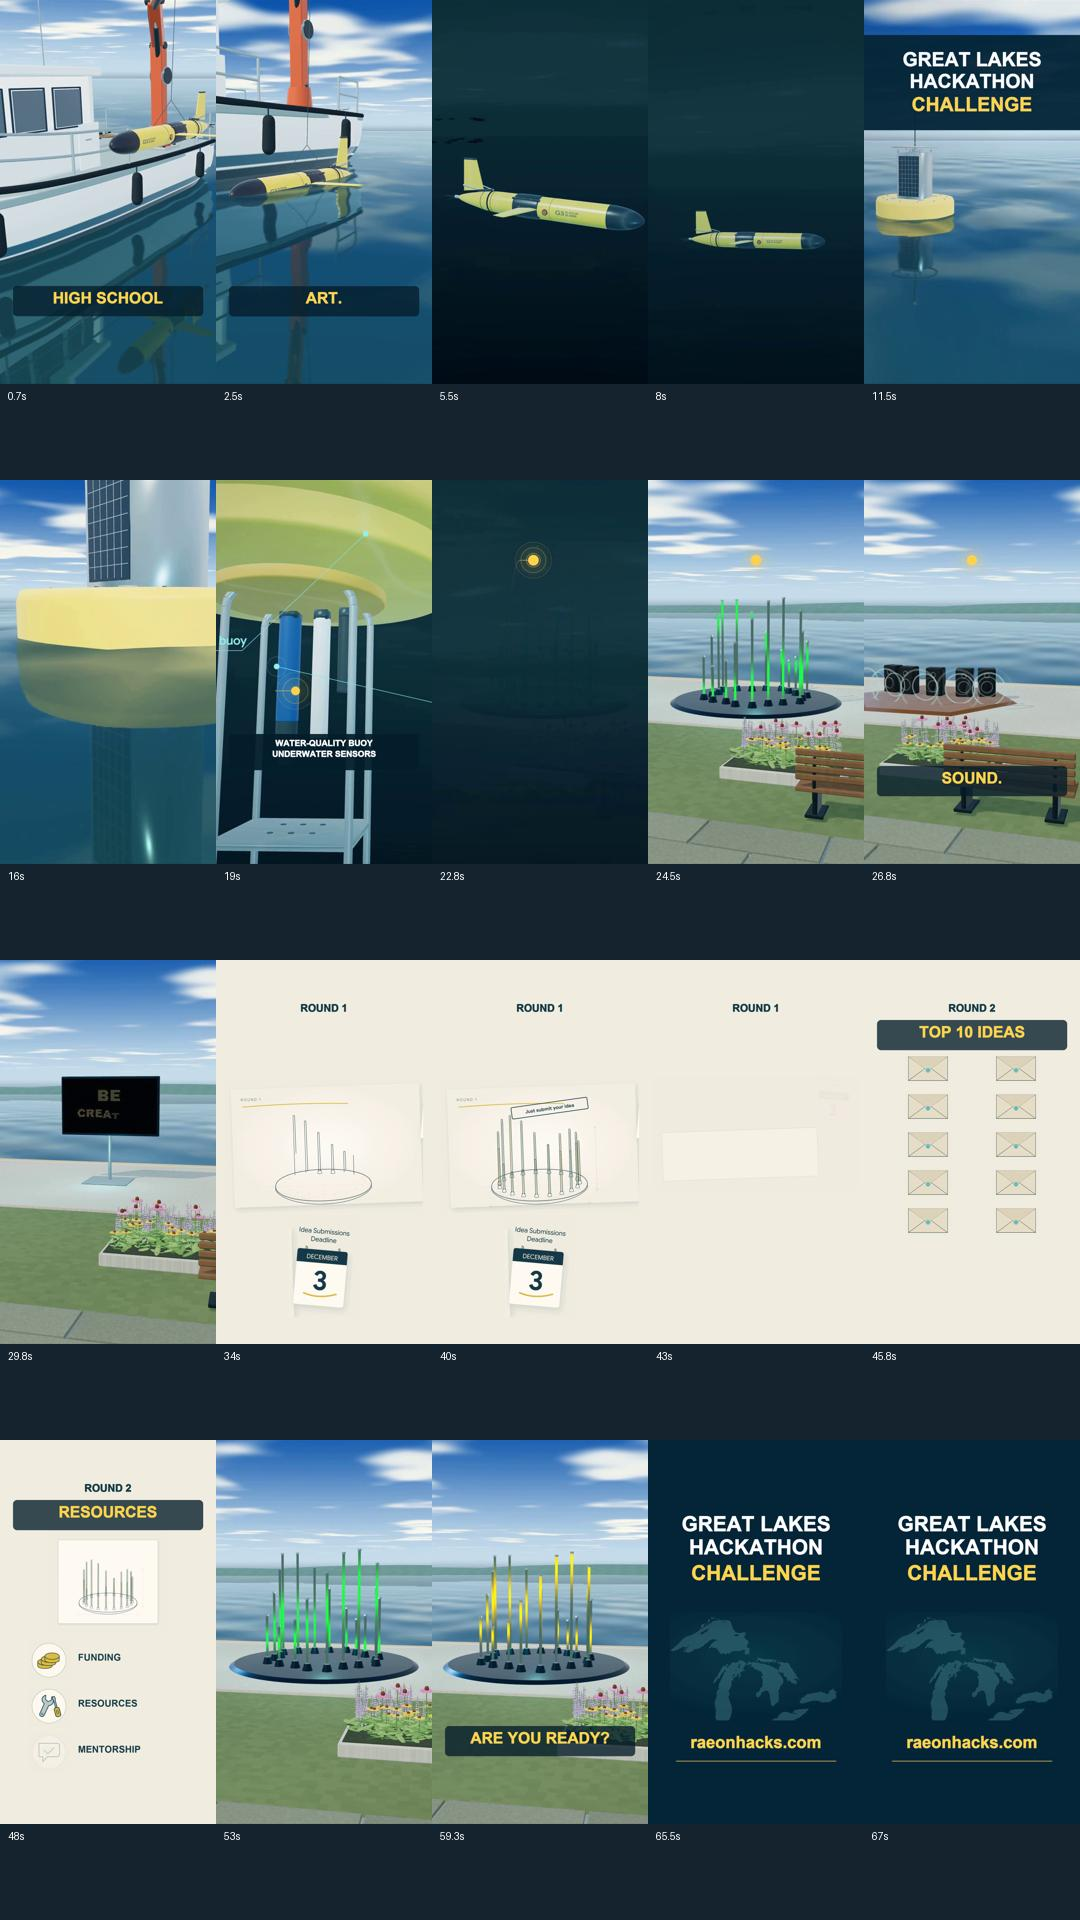
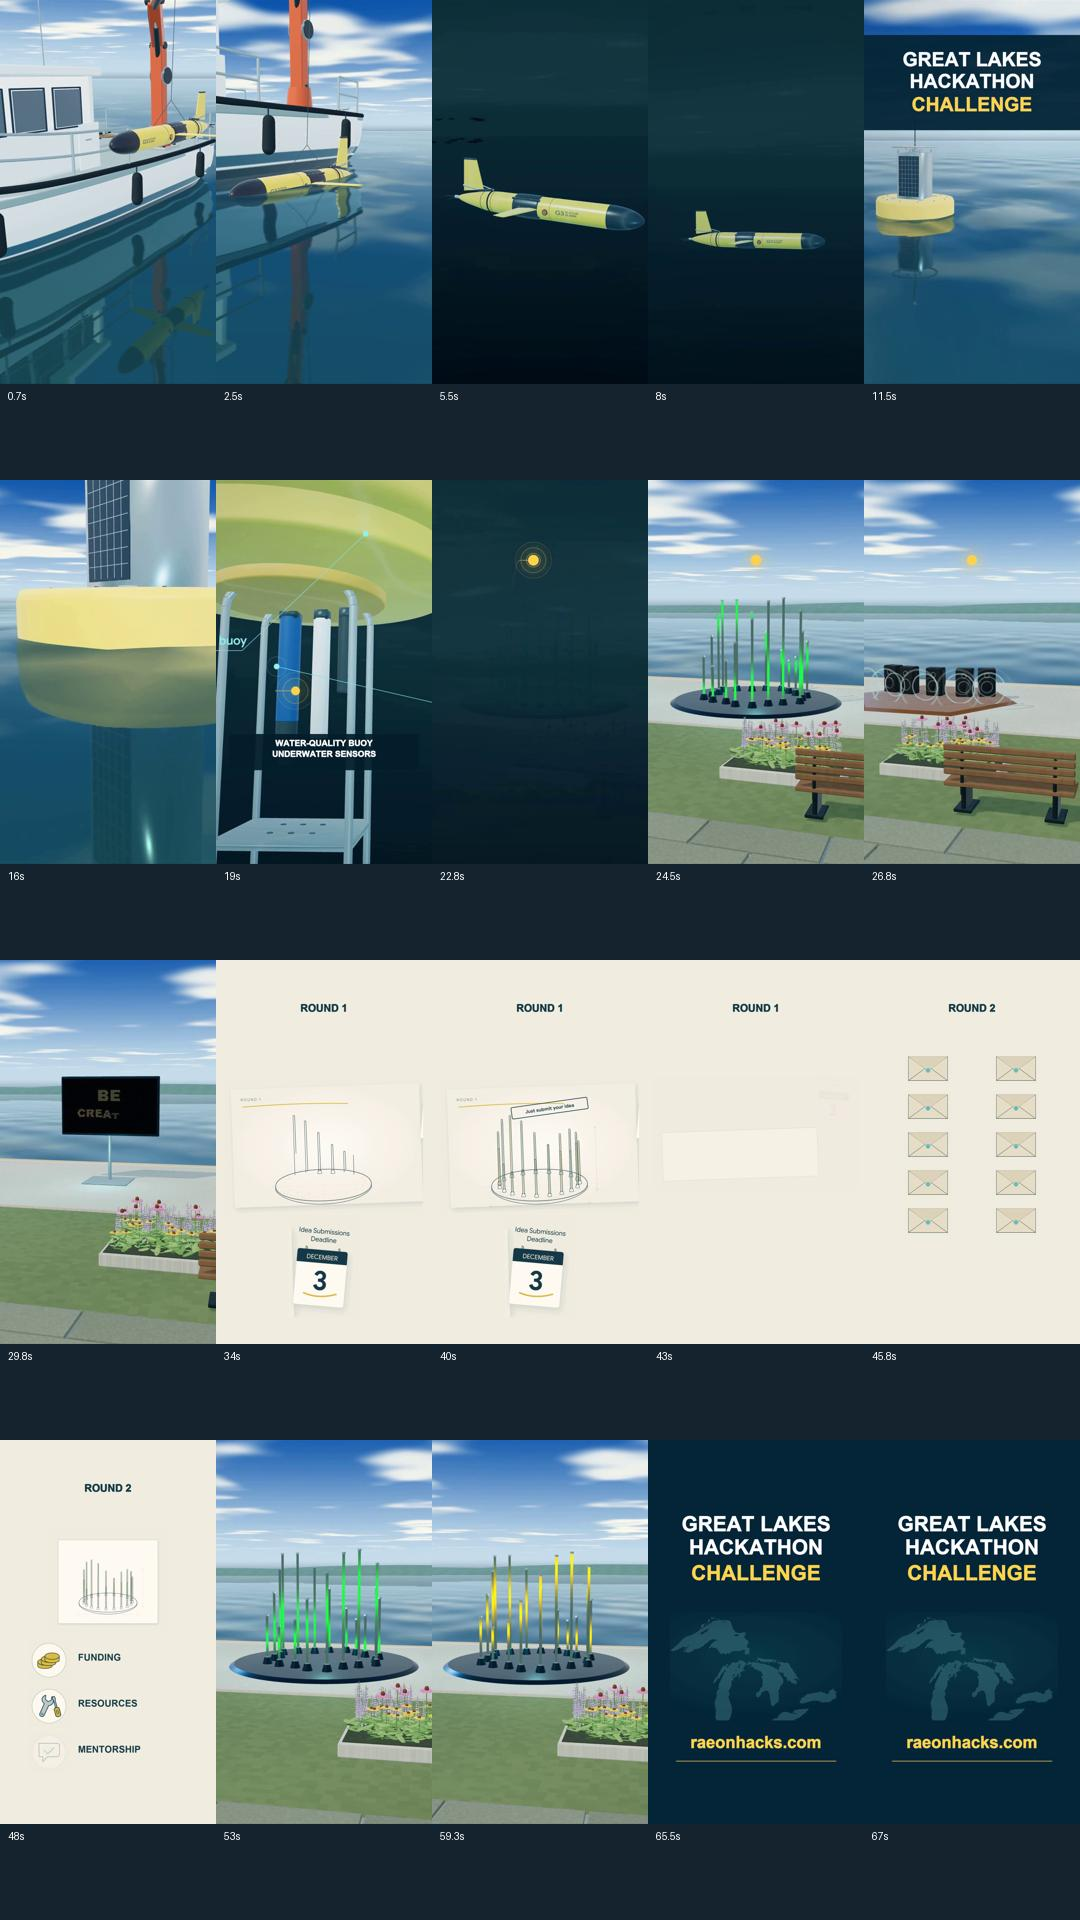
Remove keyword captions from portrait promo

diff --git a/promo/verify-portrait.py b/promo/verify-portrait.py
@@ -20,9 +20,18 @@ for i,t in enumerate(times):
  expected=cv2.cvtColor(__import__('numpy').asarray(m.frame(cv2.cvtColor(x,cv2.COLOR_BGR2RGB),f/30)),cv2.COLOR_RGB2BGR)
  error=float(cv2.absdiff(expected,y).mean());assert error<6,(t,error);errors.append({'seconds':t,'mean_pixel_error':error})
  im=Image.fromarray(cv2.cvtColor(y,cv2.COLOR_BGR2RGB));im.thumbnail((216,384));sheet.paste(im,(i%5*216,i//5*480));d.text((i%5*216+8,i//5*480+390),str(t)+'s',fill='white')
+assert m.CUES==[], 'Keyword captions should be disabled'
+removed=[]
+for cue in json.loads((root/'caption-cues.json').read_text())['cues']:
+ f=round((cue['start']+cue['end'])/2*30)
+ for c in [a,b]:c.set(cv2.CAP_PROP_POS_FRAMES,f)
+ ok,x=a.read();ok2,y=b.read();assert ok and ok2
+ expected=cv2.cvtColor(__import__('numpy').asarray(m.frame(cv2.cvtColor(x,cv2.COLOR_BGR2RGB),f/30)),cv2.COLOR_RGB2BGR)
+ error=float(cv2.absdiff(expected,y).mean());assert error<6,(cue['text'],error)
+ removed.append(cue['text'])
 def audio_hash(path):return subprocess.check_output([imageio_ffmpeg.get_ffmpeg_exe(),'-v','error','-i',str(path),'-map','0:a:0','-c:a','copy','-f','md5','-']).decode().strip()
 assert audio_hash(m.SOURCE)==audio_hash(m.OUTPUT)
 sheet.save(root/'evidence/portrait-rendered-review.jpg')
-report={'decoded_frames':count,'dimensions':[1080,1920],'fps':30,'duration_seconds':count/30,'audio_packet_hash':audio_hash(m.OUTPUT),'reframed_samples':errors,'caption_cues':len(m.CUES),'underwater_transition_end_seconds':24,'tv_cue_seconds':869/30,'method':'scene-aware subject tracking and portrait paper/resource/end-card recomposition'}
+report={'decoded_frames':count,'dimensions':[1080,1920],'fps':30,'duration_seconds':count/30,'audio_packet_hash':audio_hash(m.OUTPUT),'reframed_samples':errors,'caption_cues':len(m.CUES),'removed_caption_samples':removed,'underwater_transition_end_seconds':24,'tv_cue_seconds':869/30,'method':'scene-aware subject tracking and portrait paper/resource/end-card recomposition'}
 (root/'evidence/portrait-verification.json').write_text(json.dumps(report,indent=2))
 print(json.dumps({k:v for k,v in report.items() if k!='reframed_samples'}))

diff --git a/promo/build-portrait.py b/promo/build-portrait.py
@@ -6,10 +6,10 @@ from PIL import Image, ImageDraw, ImageFont
 
 ROOT=Path(__file__).resolve().parent
 SOURCE=ROOT/'out/glhc-24s-waterfront-transition.mp4'
-OUTPUT=ROOT/'out/glhc-portrait-9x16.mp4'
+OUTPUT=ROOT/'out/glhc-portrait-9x16-no-captions.mp4'
 W,H=1080,1920
 PAPER=(241,238,226); INK=(24,60,71); GOLD=(255,212,80)
-CUES=json.loads((ROOT/'caption-cues.json').read_text())['cues']
+CUES=[]  # Organizer requested no keyword captions in the portrait version.
 def ease(v):
     p=max(0,min(1,v));return p*p*(3-2*p)
 def font(n):return ImageFont.truetype('C:/Windows/Fonts/arialbd.ttf',n)
@@ -85,17 +85,6 @@ def frame(a,t):
         alpha=ease((t-10.5)/.65)*(1-ease((t-13.7)/.4))
         overlay=Image.new('RGB',(W,H),(5,38,56));text(overlay,['GREAT LAKES','HACKATHON'],260,97);text(overlay,['CHALLENGE'],485,97,GOLD)
         mask=Image.new('L',(W,H),0);ImageDraw.Draw(mask).rectangle((0,175,W,650),fill=int(245*alpha));im.paste(overlay,(0,0),mask)
-    # Keyword captions are reflowed and kept clear of common social app controls.
-    for c in CUES:
-        if c['start']<=t<c['end']:
-            words=c['text'].split();lines=[c['text']]
-            if len(c['text'])>18:
-                n=(len(words)+1)//2;lines=[' '.join(words[:n]),' '.join(words[n:])]
-            y=(1460 if not(31.43<t<50.6) else 330)+int(28*(1-ease((t-c['start'])/.14)))
-            overlay=im.copy();d=ImageDraw.Draw(overlay)
-            d.rounded_rectangle((65,y-30,1015,y+len(lines)*105+15),radius=20,fill=(5,30,43))
-            im=Image.blend(im,overlay,.78)
-            text(im,lines,y,78,GOLD if len(lines)==1 else 'white')
     return im
 
 def main():

diff --git a/LOG.md b/LOG.md
@@ -529,3 +529,8 @@ Production spacing48->20 units, transition intervals48 frames; peak camera trave
 ### 2026-11-01 - Portrait9:16 editorial adaptation
 - Organizer requested9:16 optimization. Created separate1080x1920 edit with scene-specific tracking over clean landscape3D footage, portrait proposal/deadline stacking, two-column10 proposals, three support rows and recomposed event/map/URL end card. Rebuilt14 shared keyword caption cues with portrait wrapping/upward entry/backing. Original master retained. Fullbleed3D is resampled editorial footage, not native portrait3D rerender; see promo/PORTRAIT.md.
 - Verified2022 decoded frames1080x1920/30FPS67.4s;20 reconstructed source/editorial-frame comparisons pass below6meanRGB error. Twenty preview and20 final rendered moments visually inspected. Narration AAC packet MD5b6ebfdfafdf3e5e3b00e3762599ac06f identical to source;24s transition and28.9667s TV cue retained. No music/SFX. Diff check passed. Artifact promo/out/glhc-portrait-9x16.mp4, evidence portrait-rendered-review.jpg/portrait-verification.json. No device playback/listening/platform upload/deployment claim. Next: organizer portrait review.
+
+
+### 2026-11-01 - Portrait keyword captions removed
+- Organizer requested no captions. Removed14 keyword overlays from portrait compositor; retained scene labels/titles/deadline/support labels/URL, framing, narration and timing. Separate prior exports preserved.
+- Verified2022-frame1080x1920/30FPS67.4s decode,20 editorial comparisons plus14 former-caption moments against clean compositor. Twenty rendered moments visually inspected. Zero keyword cues; identical AAC packet MD5b6ebfdfafdf3e5e3b00e3762599ac06f. Diff check passed. Artifact promo/out/glhc-portrait-9x16-no-captions.mp4; portrait-rendered-review.jpg/portrait-verification.json updated. No playback/listening/upload/deployment claim. Next: organizer review.

diff --git a/NOW.md b/NOW.md
@@ -1,7 +1,7 @@
-# Active Initiative - GLHC-004 portrait adaptation
+# Active Initiative - GLHC-004 portrait without captions
 
 Status: complete; organizer review pending. Main fetched ancestor.
 
-Separate9:16 editorial adaptation of approved clean24s-transition master. Scene-specific3D subject tracking, portrait proposal/deadline layout, two-column10 proposals, stacked support rows, portrait event/map/URL end card and shared selective caption cues. Fullbleed3D resamples landscape footage; not native portrait3D rerender. Original master preserved.
+Removed14 keyword caption cues from9:16 compositor. Scene text/titles/deadline/support labels/end card, subject framing, narration and timing retained. Captioned portrait/landscape exports preserved separately.
 
-Twenty preview moments visually inspected.67.4s/2022-frame30FPS timing and corrected narration remain; no music/SFX. Verified2022 decoded frames1080x1920/30FPS67.4s,20 reconstructed-frame comparisons and identical AAC packet MD5b6ebfdfafdf3e5e3b00e3762599ac06f. Twenty final rendered moments visually inspected; diff check passed. Artifact promo/out/glhc-portrait-9x16.mp4. Next: organizer portrait review. No device playback/listening/upload claim. Website/live unchanged.
+Verified2022 decoded frames1080x1920/30FPS67.4s,20 editorial frame comparisons and14 former-caption moment comparisons against clean compositor. Twenty final rendered moments visually inspected. Zero keyword cues; AAC packet MD5b6ebfdfafdf3e5e3b00e3762599ac06f identical. Diff check passed. Artifact promo/out/glhc-portrait-9x16-no-captions.mp4. Next: organizer review. No playback/listening/upload/deployment claim. Website/live unchanged.

diff --git a/promo/PORTRAIT.md b/promo/PORTRAIT.md
@@ -7,3 +7,5 @@ Source is the clean approved24s-transition master; selective caption cues are re
 Editorial adaptation uses scene-specific horizontal tracking over original3D footage, rather than a single fixed centre crop. Round1 proposal/deadline are restacked; Round2 ten envelopes become two columns and support icons become three rows. New portrait end card retains event name, map and raeonhacks.com. Keyword captions are reflowed inside80px side margins with upward entrance and backed for legibility. Existing narration cue times and24s underwater handoff retained.
 
 This is an editorial reframe of1920x1080 footage, with resampling for full-bleed3D shots; it is not a native portrait3D rerender. Original landscape master is retained. Review representative portrait moments, especially close buoy framing and paper-folding beats, before publication. No platform upload or device playback verified.
+
+Organizer follow-up: keyword captions removed entirely from current portrait export glhc-portrait-9x16-no-captions.mp4. Scene labels, titles, deadline, support labels and URL remain. Verification also checks every former caption cue against the uncaptioned compositor.

diff --git a/PROJECT.md b/PROJECT.md
@@ -101,3 +101,5 @@ Promo timing follow-up2026-11-01: underwater dissolve now completes at24s, with1
 Promo selective-caption direction2026-11-01: use sparse white/gold kinetic keyword captions, excluding competition reveal and adding funding/resources/mentorship labels. Editable cue layer preserves master/audio. See promo/SELECTIVE-CAPTIONS.md.
 
 Portrait promo2026-11-01: separate1080x1920 editorial adaptation uses tracked3D footage and vertically restacked proposal/deadline, two-column10 proposals, support rows and portrait end card. Caption cues shared; clean24s-transition master/audio/timing retained. See promo/PORTRAIT.md for resampling boundary.
+
+Portrait follow-up2026-11-01: current9:16 export omits keyword captions; in-scene labels/titles/deadline/end card remain. Landscape captioned export retained separately.

diff --git a/TASKS.md b/TASKS.md
@@ -164,3 +164,5 @@ Production spacing48->20 units, transition intervals48 frames; peak camera trave
 - `[verified; organizer review pending]` GLHC-004 selective kinetic captions:14 cues, no competition reveal, funding/resources/mentorship added; audio packet-identical.
 
 - `[verified; organizer review pending]` GLHC-0041080x1920 portrait editorial adaptation with tracking, stacked proposal/deadline/resources, two-column top10 and reflowed keyword captions.
+
+- `[verified; organizer review pending]` GLHC-004 remove keyword captions from portrait edit; retain scene text and audio.
